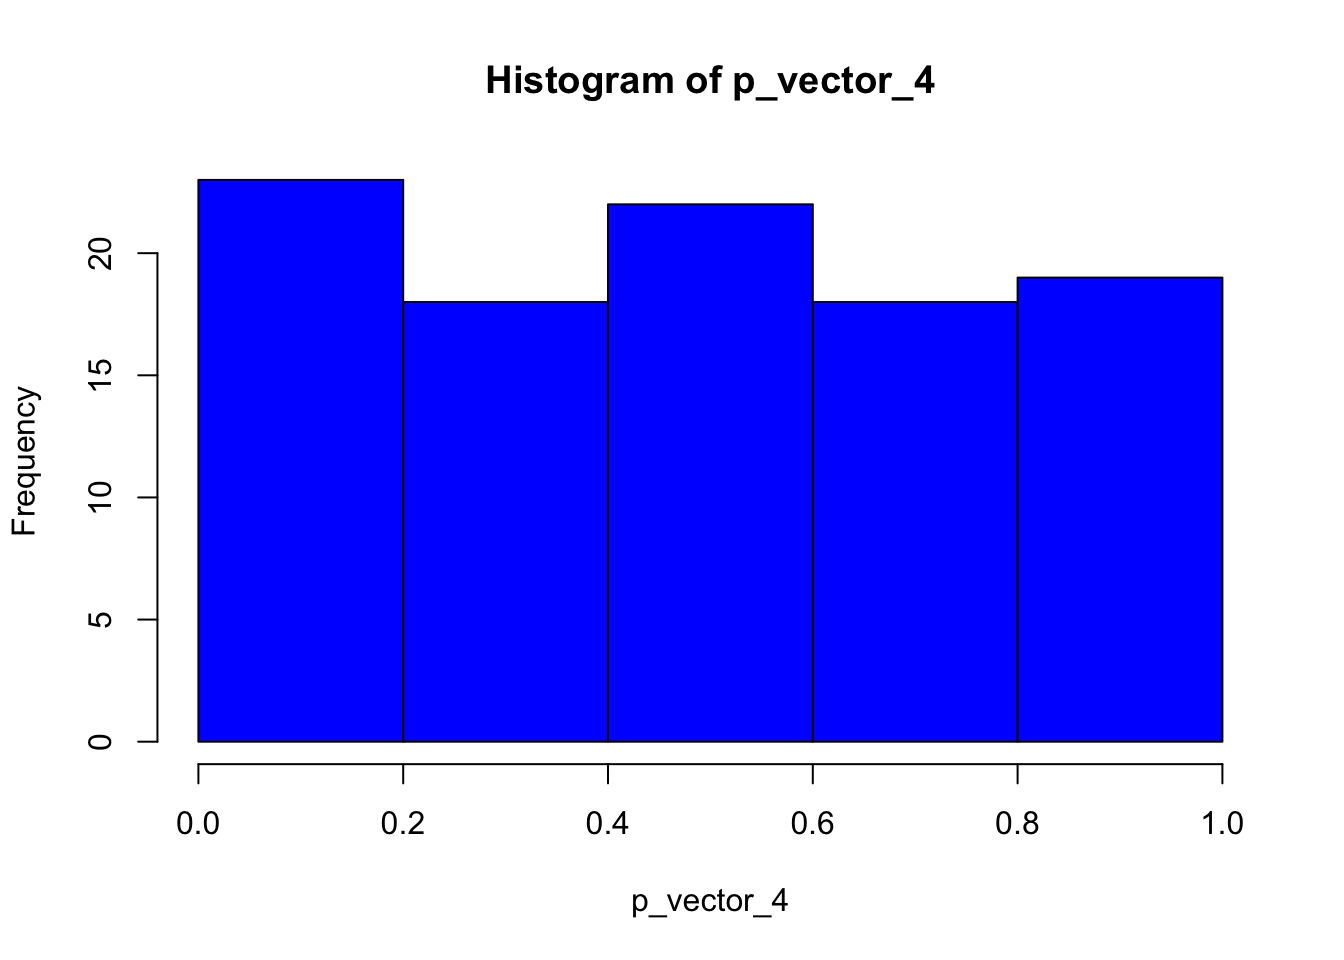
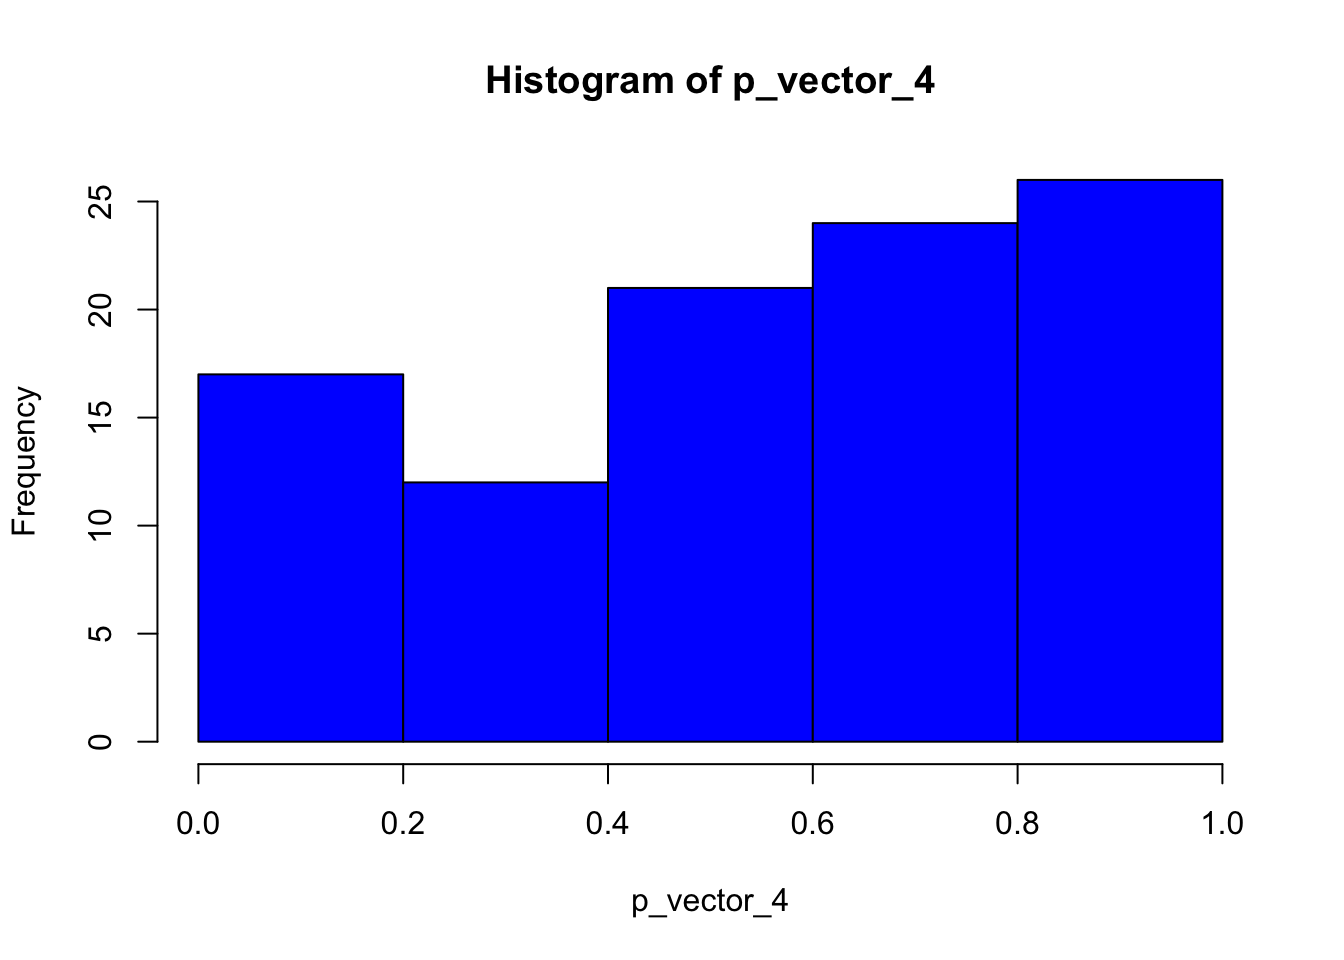
upload markdown as gfm

diff --git a/final_project.html b/final_project.html
@@ -71,10 +71,11 @@ pre > code.sourceCode > span > a:first-child::before { text-decoration: underlin
 
 </head>
 
-<body class="fullcontent">
+<body>
 
 <div id="quarto-content" class="page-columns page-rows-contents page-layout-article">
-
+<div id="quarto-margin-sidebar" class="sidebar margin-sidebar">
+<div class="quarto-alternate-formats"><h2>Other Formats</h2><ul><li><a href="final_project.md"><i class="bi bi-file-code"></i>Github (GFM)</a></li></ul></div></div>
 <main class="content" id="quarto-document-content">
 
 <header id="title-block-header" class="quarto-title-block default">
@@ -140,16 +141,16 @@ pre > code.sourceCode > span > a:first-child::before { text-decoration: underlin
 <div class="cell">
 <div class="sourceCode cell-code" id="cb6"><pre class="sourceCode r code-with-copy"><code class="sourceCode r"><span id="cb6-1"><a href="#cb6-1" aria-hidden="true" tabindex="-1"></a><span class="fu">simCorn</span>()</span></code><button title="Copy to Clipboard" class="code-copy-button"><i class="bi"></i></button></pre></div>
 <div class="cell-output cell-output-stdout">
-<pre><code>  Fertilizer Row Column      Yield
-1          A   1      1 -0.3682599
-2          B   1      2 -1.0174609
-3          C   1      3  2.2626431
-4          C   2      1  2.3553546
-5          A   2      2 -0.5425470
-6          B   2      3 -0.1539258
-7          B   3      1  0.4460079
-8          C   3      2 -0.1853147
-9          A   3      3  1.8930707</code></pre>
+<pre><code>  Fertilizer Row Column       Yield
+1          A   1      1 -1.15622670
+2          B   1      2 -0.74549140
+3          C   1      3  0.43098271
+4          C   2      1 -1.27231506
+5          A   2      2  1.01970905
+6          B   2      3 -0.25241809
+7          B   3      1  0.51995341
+8          C   3      2  0.17126220
+9          A   3      3 -0.07100814</code></pre>
 </div>
 </div>
 <div class="cell">
